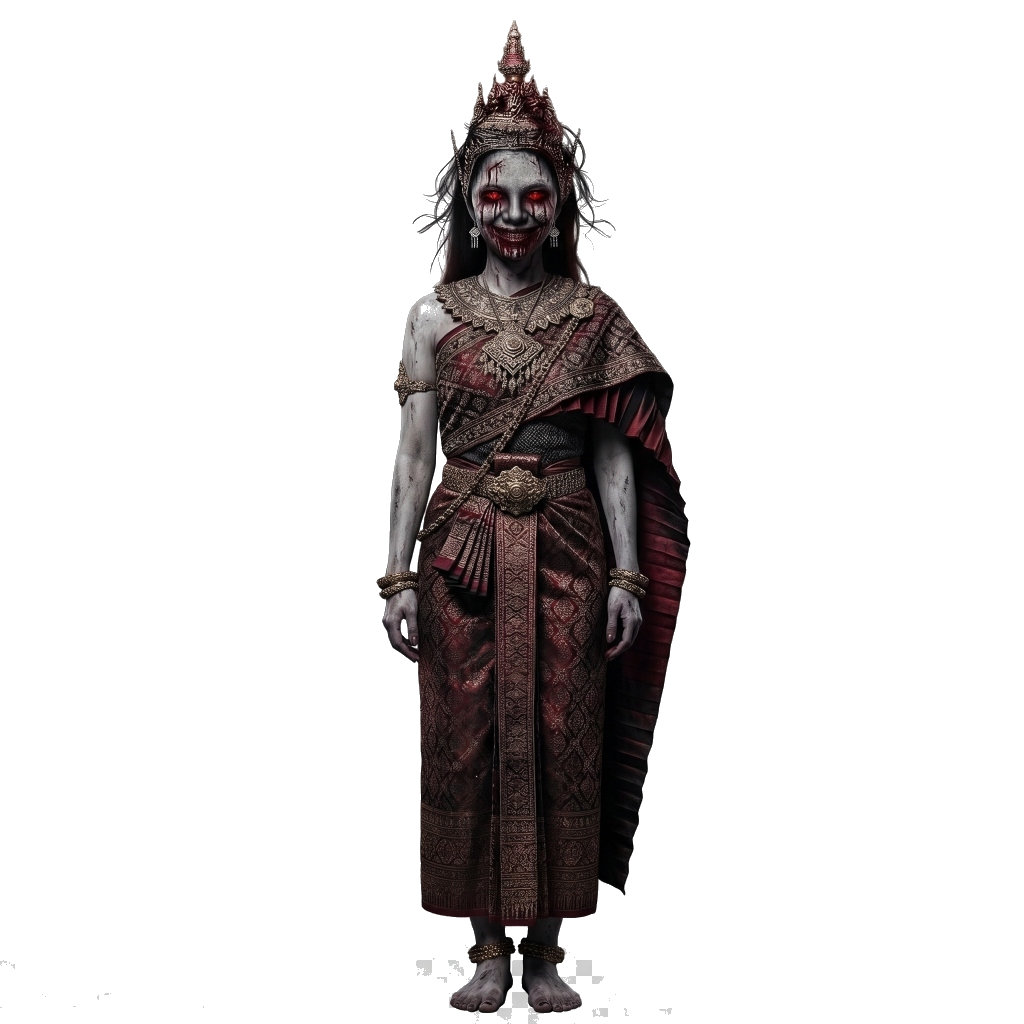
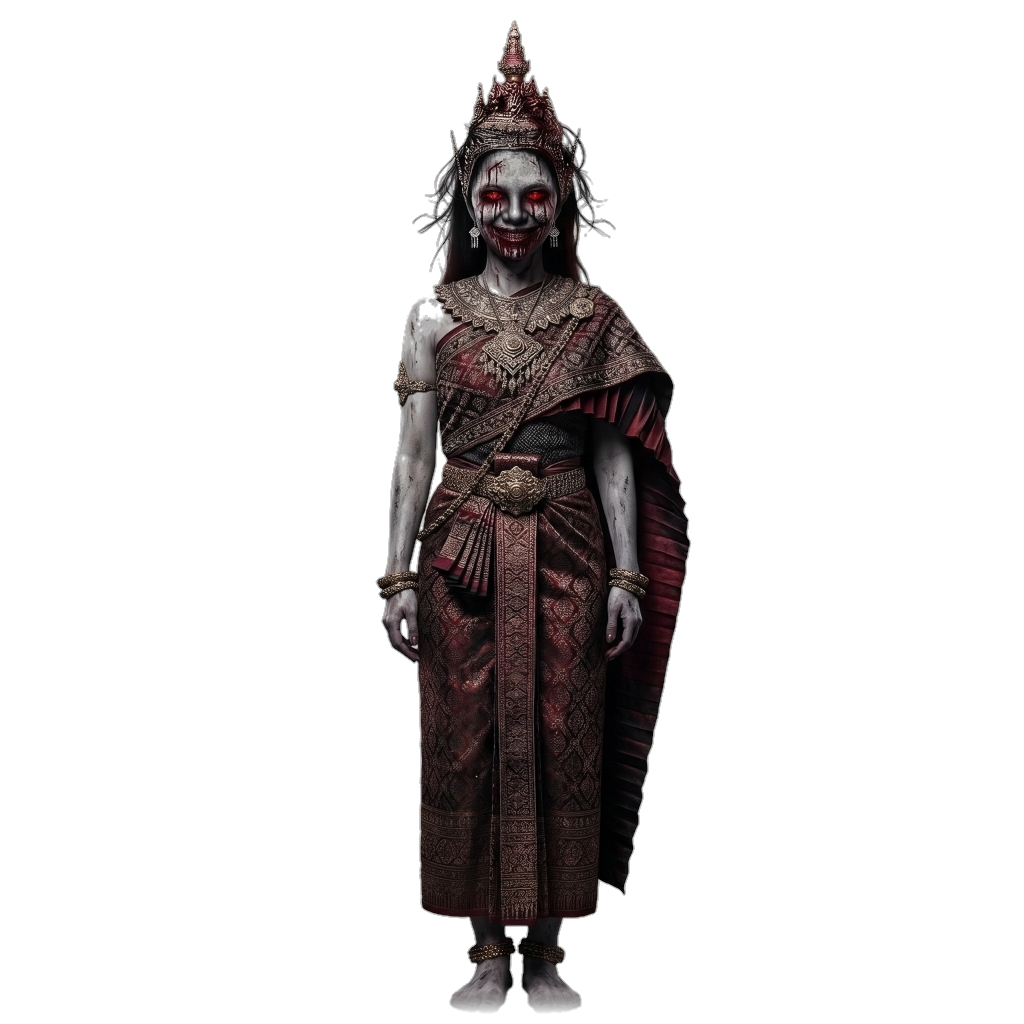
fix: smooth ghost bottom edges with alpha feathering and CSS mask gradient

diff --git a/css/style.css b/css/style.css
@@ -1803,6 +1803,7 @@ html.js-enabled .reveal.is-visible {
 .peekaboo-ghost-wrap {
   position: relative;
   display: block;
+  overflow: visible;
 }
 
 .peekaboo-ghost-glow {
@@ -1816,6 +1817,18 @@ html.js-enabled .reveal.is-visible {
   pointer-events: none;
 }
 
+/* Dark bottom mist & contact shadow for seamless floor blend */
+.peekaboo-ghost-mist {
+  position: absolute;
+  bottom: 0;
+  left: 0;
+  right: 0;
+  height: 90px;
+  background: linear-gradient(to top, rgba(10, 10, 12, 0.95) 0%, rgba(10, 10, 12, 0.5) 50%, transparent 100%);
+  pointer-events: none;
+  z-index: 2;
+}
+
 .peekaboo-ghost.is-visible .peekaboo-ghost-glow {
   opacity: 1;
 }
@@ -1826,6 +1839,9 @@ html.js-enabled .reveal.is-visible {
   max-height: 80vh;
   object-fit: contain;
   filter: drop-shadow(0 15px 30px rgba(0, 0, 0, 0.9)) drop-shadow(0 0 20px rgba(185, 28, 28, 0.4));
+  /* Smooth feathering at the bottom to eliminate hard cutoff */
+  -webkit-mask-image: linear-gradient(to top, transparent 0%, rgba(0, 0, 0, 0.4) 4%, black 16%, black 100%);
+  mask-image: linear-gradient(to top, transparent 0%, rgba(0, 0, 0, 0.4) 4%, black 16%, black 100%);
 }
 
 /* Respect Reduced Motion Preferences

diff --git a/components/PeekabooGhost.jsx b/components/PeekabooGhost.jsx
@@ -88,12 +88,15 @@ export default function PeekabooGhostDemo() {
             }`}
           />
 
-          {/* Ghost Image from /public/ghost-transparent.png */}
+          {/* Ghost Image from /public/ghost-transparent.png with bottom smooth feathering */}
           <img
             src="/ghost-transparent.png"
             alt="Peekaboo Ghost"
-            className="relative w-56 sm:w-72 md:w-88 lg:w-96 max-h-[85vh] object-contain drop-shadow-[0_15px_30px_rgba(0,0,0,0.9)]"
+            className="relative w-56 sm:w-72 md:w-88 lg:w-96 max-h-[85vh] object-contain drop-shadow-[0_15px_30px_rgba(0,0,0,0.9)] [mask-image:linear-gradient(to_top,transparent_0%,rgba(0,0,0,0.4)_4%,black_16%,black_100%)] [-webkit-mask-image:linear-gradient(to_top,transparent_0%,rgba(0,0,0,0.4)_4%,black_16%,black_100%)]"
           />
+
+          {/* Bottom ambient shadow/mist to ground the ghost smoothly */}
+          <div className="absolute bottom-0 inset-x-0 h-24 bg-gradient-to-t from-neutral-950 via-neutral-950/60 to-transparent pointer-events-none" />
         </div>
       </div>
 

diff --git a/components/PeekabooGhost.tsx b/components/PeekabooGhost.tsx
@@ -62,8 +62,9 @@ export const PeekabooGhostOverlay: React.FC<{
         <img
           src={imageSrc}
           alt="Peekaboo Ghost"
-          className="relative w-56 sm:w-72 md:w-88 lg:w-96 max-h-[85vh] object-contain drop-shadow-[0_15px_30px_rgba(0,0,0,0.9)]"
+          className="relative w-56 sm:w-72 md:w-88 lg:w-96 max-h-[85vh] object-contain drop-shadow-[0_15px_30px_rgba(0,0,0,0.9)] [mask-image:linear-gradient(to_top,transparent_0%,rgba(0,0,0,0.4)_4%,black_16%,black_100%)] [-webkit-mask-image:linear-gradient(to_top,transparent_0%,rgba(0,0,0,0.4)_4%,black_16%,black_100%)]"
         />
+        <div className="absolute bottom-0 inset-x-0 h-24 bg-gradient-to-t from-neutral-950 via-neutral-950/60 to-transparent pointer-events-none" />
       </div>
     </div>
   );

diff --git a/peekaboo-demo.html b/peekaboo-demo.html
@@ -45,8 +45,10 @@
       <img
         src="assets/images/ghost-transparent.png"
         alt="Peekaboo Ghost"
-        class="relative w-56 sm:w-72 md:w-88 lg:w-96 max-h-[85vh] object-contain drop-shadow-[0_15px_30px_rgba(0,0,0,0.9)]"
+        class="relative w-56 sm:w-72 md:w-88 lg:w-96 max-h-[85vh] object-contain drop-shadow-[0_15px_30px_rgba(0,0,0,0.9)] [mask-image:linear-gradient(to_top,transparent_0%,rgba(0,0,0,0.4)_4%,black_16%,black_100%)] [-webkit-mask-image:linear-gradient(to_top,transparent_0%,rgba(0,0,0,0.4)_4%,black_16%,black_100%)]"
       />
+      <!-- Bottom dark fog blend -->
+      <div class="absolute bottom-0 inset-x-0 h-24 bg-gradient-to-t from-neutral-950 via-neutral-950/60 to-transparent pointer-events-none"></div>
     </div>
   </div>
 

diff --git a/index.html b/index.html
@@ -326,6 +326,7 @@
     <div class="peekaboo-ghost-wrap">
       <div class="peekaboo-ghost-glow"></div>
       <img src="assets/images/ghost-transparent.png" alt="ผีบอกว่าอย่าหาทำ Peekaboo Ghost" class="peekaboo-ghost-img" />
+      <div class="peekaboo-ghost-mist" aria-hidden="true"></div>
     </div>
   </aside>
 </body>
